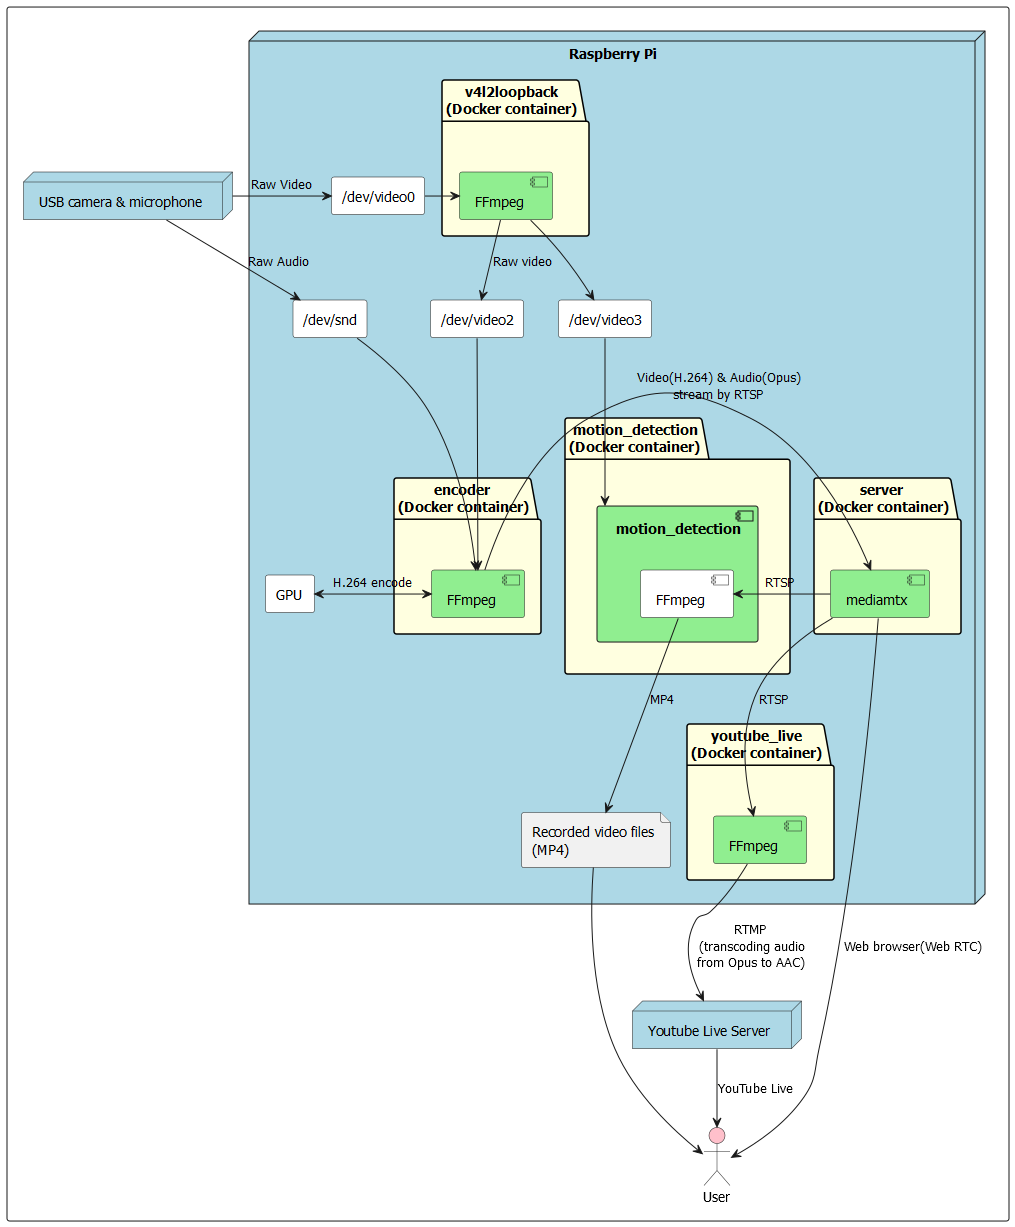
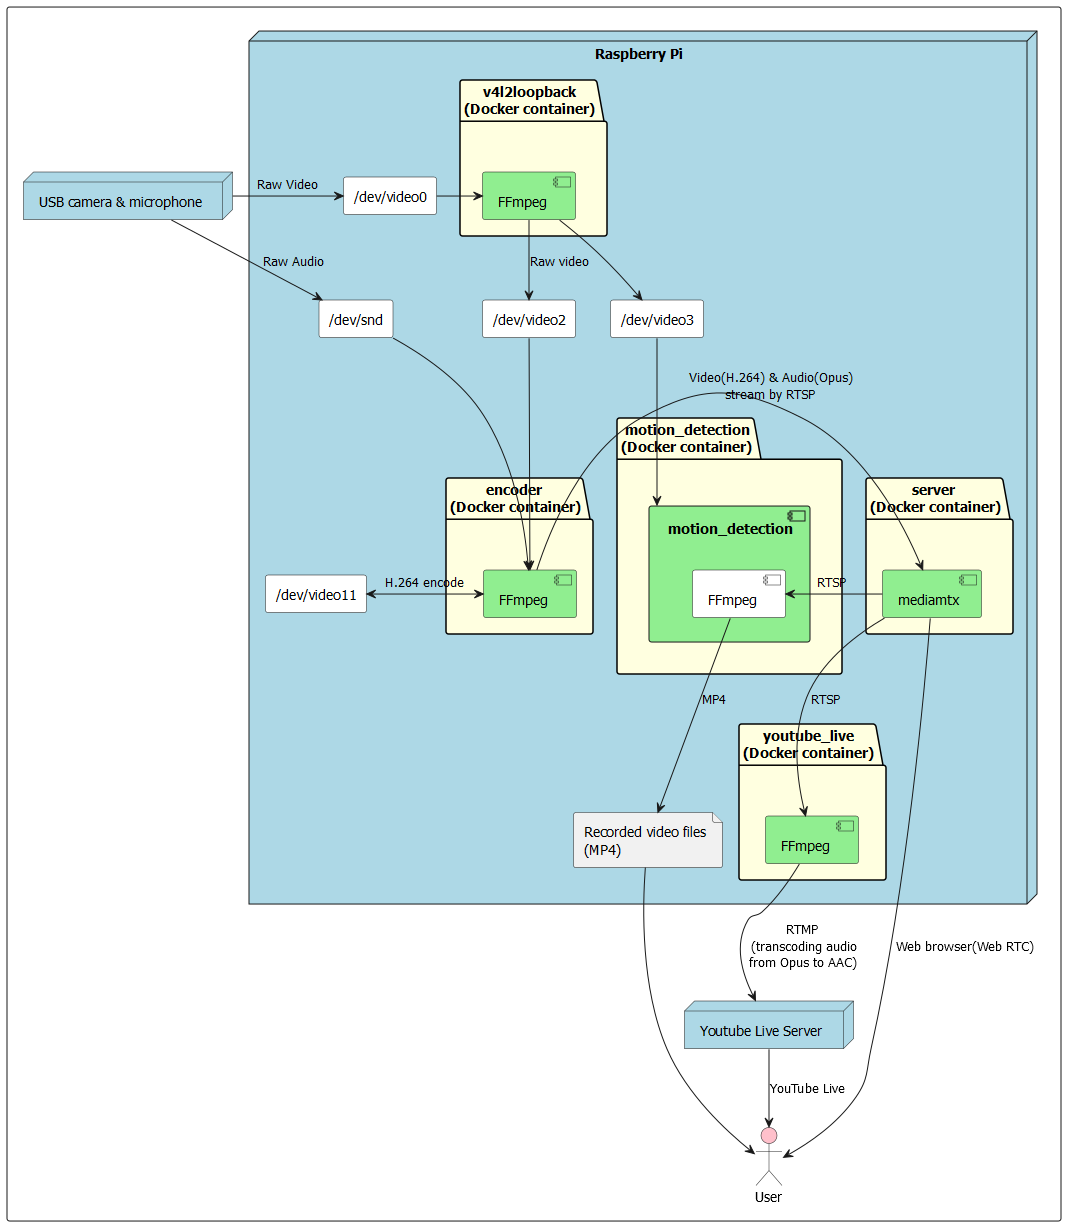
GPUの図中の表記を変更

diff --git a/src_README.md b/src_README.md
@@ -46,7 +46,7 @@ node "Raspberry Pi" #lightblue {
     rectangle "/dev/video2" as v2 #white
     rectangle "/dev/video3" as v3 #white
     rectangle "/dev/snd" as a1 #white
-    rectangle "GPU" as gpu #white
+    rectangle "/dev/video11" as gpu #white
 
     package "v4l2loopback\n(Docker container)" #lightyellow {
         component "FFmpeg" as v4l2lb_ffmpeg #lightgreen
